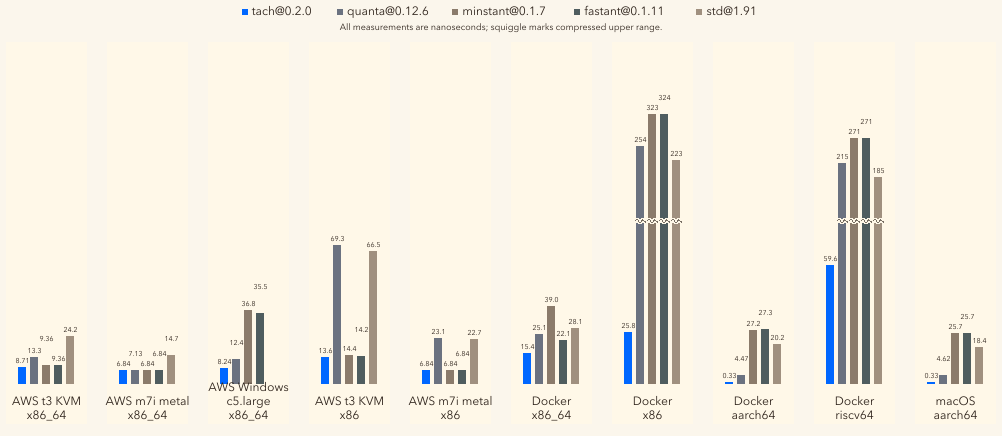
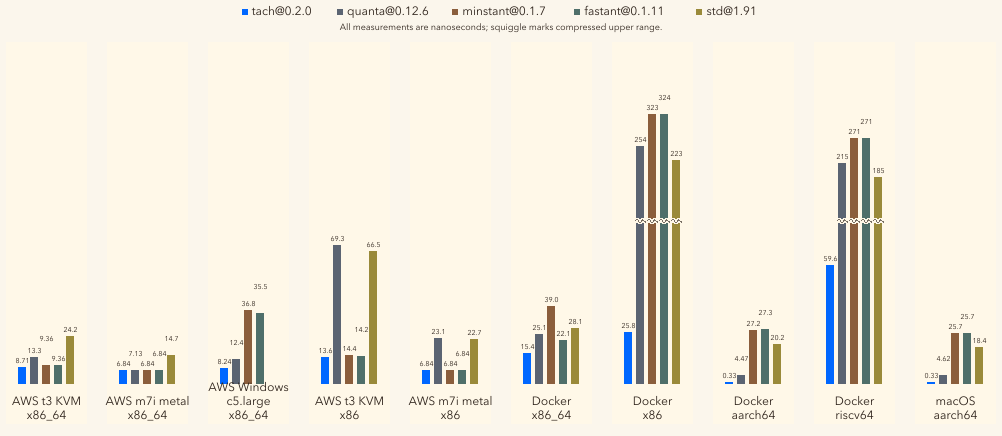
docs(readme): improve benchmark palette contrast

diff --git a/benches/assets/render_benchmark.py b/benches/assets/render_benchmark.py
@@ -19,10 +19,10 @@ FONT = "Avenir Next, Helvetica, Arial, sans-serif"
 
 CRATES = [
   ("tach@0.2.0", "#0067FF"),
-  ("quanta@0.12.6", "#6B7280"),
-  ("minstant@0.1.7", "#8B7B6B"),
-  ("fastant@0.1.11", "#4F5D5F"),
-  ("std@1.91", "#A0907F"),
+  ("quanta@0.12.6", "#5B6472"),
+  ("minstant@0.1.7", "#8B5E3C"),
+  ("fastant@0.1.11", "#4F6F6A"),
+  ("std@1.91", "#9A8A3A"),
 ]
 
 GROUPS = [

diff --git a/PROJECT.md b/PROJECT.md
@@ -9,6 +9,7 @@ tach provides a zero-dependency Rust API for reading fast CPU or platform tick c
 - [x] Fix macOS x86_64 self-patching call-target corruption
 - [x] Rename crate and GitHub repository to `tach`
 - [x] Highlight `tach` in benchmark chart palette
+- [x] Improve neutral benchmark series contrast
 - [x] Add broken-scale squiggles to Docker benchmark outliers
 - [x] Drop libc and ABI suffixes from chart labels
 - [x] Add Windows c5.large to shared-scale benchmark chart
